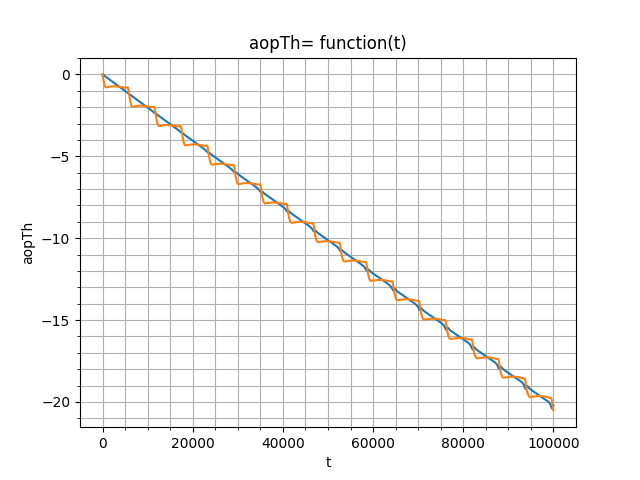
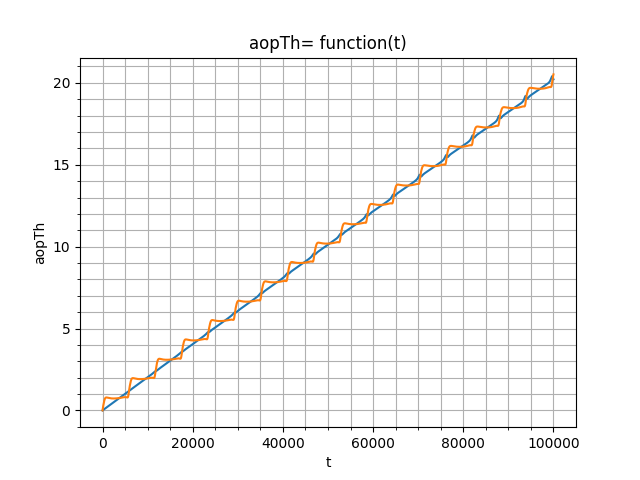
2 corrected

Changed region(s): [[0.0312, 0.125, 0.9062, 0.875], [0.0625, 0.3125, 0.125, 0.3438]]

diff --git a/2b/j2calc.py b/2b/j2calc.py
@@ -1,8 +1,6 @@
-import numpy as np
-
 from init2b import *
 import matplotlib.pyplot as plt
-from rkSolver import RK4Model, RK4
+from rkSolver import RK4Model
 
 def accelerationJ2(rVec):
     [rx, ry, rz]  = rVec
@@ -15,7 +13,7 @@ def accelerationJ2(rVec):
     wCenter = - mu * rVec / r**3
     return wCenter + wJ2
 
-def orbitalToCartesian(a, ecc, trueAnomaly):
+def orbitalToCartesian(a, ecc, trueAnomaly, raan, inc, aop):
     p = a * (1 - ecc ** 2)
     r = p / (1 + ecc * np.cos(trueAnomaly))
     trueAnomalyDot = np.sqrt(p * mu) / r**2
@@ -24,7 +22,20 @@ def orbitalToCartesian(a, ecc, trueAnomaly):
     vxOSC = rDot * np.cos(trueAnomaly) - r * trueAnomalyDot * np.sin(trueAnomaly)
     vyOSC = rDot * np.sin(trueAnomaly) + r * trueAnomalyDot * np.cos(trueAnomaly)
     velVecOSC = np.array([vxOSC, vyOSC, 0])
-    return np.concatenate((rVecOSC, velVecOSC), axis=None)
+
+    rotRaan = np.array([[np.cos(raan), -np.sin(raan), 0],
+                        [np.sin(raan), np.cos(raan), 0],
+                        [0, 0, 1]])
+    rotInc = np.array([[1, 0, 0],
+                       [0, np.cos(inc), -np.sin(inc)],
+                       [0, np.sin(inc), np.cos(inc)]])
+    rotAop = np.array([[np.cos(aop), -np.sin(aop), 0],
+                       [np.sin(aop), np.cos(aop), 0],
+                       [0, 0, 1]])
+
+    rVecISC = rotRaan.dot(rotInc.dot(rotAop.dot(rVecOSC)))
+    velVecISC = rotRaan.dot(rotInc.dot(rotAop.dot(velVecOSC)))
+    return np.concatenate((rVecISC, velVecISC), axis=None)
 
 def cartesianToOrbital(stateRV, mu):
 
@@ -64,27 +75,11 @@ def cartesianToOrbital(stateRV, mu):
 
     return np.array([inc, raan, a, ecc, aop, trueAnomaly, c, f])
 
-def OSCtoISC(raan, inc, aop, vectorOSC):
-    rotRaan = np.array([[np.cos(raan), -np.sin(raan), 0],
-                      [np.sin(raan), np.cos(raan), 0],
-                      [0, 0, 1]])
-    rotInc = np.array([[1, 0, 0],
-                     [0, np.cos(inc), -np.sin(inc)],
-                     [0, np.sin(inc), np.cos(inc)]])
-    rotAop = np.array([[np.cos(aop), -np.sin(aop), 0],
-                     [np.sin(aop), np.cos(aop), 0],
-                     [0, 0, 1]])
 
-    return rotRaan.dot(rotInc.dot(rotAop.dot(vectorOSC)))
-
-stateOSC0 = orbitalToCartesian(a, ecc, trueAnomaly)
-
-stateISC0 = np.zeros(6)
-stateISC0[0:3] = OSCtoISC(raan, inc, aop, stateOSC0[0:3])
-stateISC0[3:] = OSCtoISC(raan, inc, aop, stateOSC0[3:])
+state0 = orbitalToCartesian(a0, ecc0, trueAnomaly0, raan0, inc0, aop0)
 
 twoBodyModel = lambda stateVec: np.concatenate((stateVec[3:], accelerationJ2(stateVec[0:3])),axis=None)
-stateRVarr = RK4Model(stateISC0, t, dt, twoBodyModel)
+stateRVarr = RK4Model(state0, t, dt, twoBodyModel)
 ax = plt.figure().add_subplot(projection='3d')
 
 # Prepare arrays x, y, z
@@ -97,13 +92,13 @@ plt.savefig('3dOrbitGraph.png')
 plt.show()
 plt.close()
 
-orbitalElements = np.array([[0.0]*len(cartesianToOrbital(stateISC0, mu)) for i in  range(len(t))])
+orbitalElements = np.array([[0.0]*len(cartesianToOrbital(state0, mu)) for i in  range(len(t))])
 
 for i in range(len(t)):
     orbitalElements[i] = cartesianToOrbital(stateRVarr[i], mu)
 
 orbitalTitle = ['inc', 'raan', 'a', 'ecc', 'aop', 'trueAnomaly', 'c', 'f']
-for i in range(len(orbitalTitle)):
+for i in 0, 2, 3, 5, 6, 7:
     plt.plot(t, np.round(orbitalElements[:, i],1))
     plt.title(orbitalTitle[i] + '= func(t)')
     plt.xlabel('t')
@@ -113,12 +108,12 @@ for i in range(len(orbitalTitle)):
     plt.savefig(orbitalTitle[i] + '2b.png')
     plt.close()
 
-a = orbitalElements[:, 2]
-ecc = orbitalElements[:, 3]
-inc = orbitalElements[:, 0]
+aArr = orbitalElements[:, 2]
+eccArr = orbitalElements[:, 3]
+incArr = orbitalElements[:, 0]
 
-raanDot = 3/2 * J2 * (Rearth / (a * (1 - ecc**2)))**2 * np.sqrt(mu / a**3) * np.cos(inc)
-aopDot =  -3/4 * J2 * (Rearth / (a * (1 - ecc**2)))**2 * np.sqrt(mu / a**3) * (5 * (np.cos(inc))**2 - 1)
+raanDot = 3/2 * J2 * (Rearth / (aArr * (1 - eccArr**2)))**2 * np.sqrt(mu / aArr**3) * np.cos(incArr)
+aopDot =  -3/4 * J2 * (Rearth / (aArr * (1 - eccArr**2)))**2 * np.sqrt(mu / aArr**3) * (5 * (np.cos(incArr))**2 - 1)
 
 raanAnalytical = np.zeros(len(raanDot))
 aopAnalytical  = np.zeros(len(aopDot))
@@ -131,8 +126,8 @@ titleAnalytical = ['raanTh', 'aopTh']
 y = [raanAnalytical, aopAnalytical]
 yDig = [orbitalElements[:, 1] - orbitalElements[0, 1], orbitalElements[:, 4] - orbitalElements[0, 4]]
 for i in range(len(titleAnalytical)):
-    plt.plot(t, np.rad2deg(y[i]))
-    plt.plot(t, yDig[i])
+    plt.plot(t, np.rad2deg(-y[i]))
+    plt.plot(t, -yDig[i])
     plt.title(titleAnalytical[i] + '= function(t)')
     plt.xlabel('t')
     plt.ylabel(titleAnalytical[i])

diff --git a/2a/twoBodiesTask.py b/2a/twoBodiesTask.py
@@ -2,7 +2,7 @@ from rkSolver import RK4Model, RK4
 from init2a import *
 import  matplotlib.pyplot as plt
 
-def orbitalToCartesian(a, ecc, trueAnomaly):
+def orbitalToCartesian(a, ecc, trueAnomaly, raan, inc, aop):
     p = a * (1 - ecc ** 2)
     r = p / (1 + ecc * np.cos(trueAnomaly))
     trueAnomalyDot = np.sqrt(p * mu) / r**2
@@ -11,7 +11,20 @@ def orbitalToCartesian(a, ecc, trueAnomaly):
     vxOSC = rDot * np.cos(trueAnomaly) - r * trueAnomalyDot * np.sin(trueAnomaly)
     vyOSC = rDot * np.sin(trueAnomaly) + r * trueAnomalyDot * np.cos(trueAnomaly)
     velVecOSC = np.array([vxOSC, vyOSC, 0])
-    return np.concatenate((rVecOSC, velVecOSC), axis=None)
+
+    rotRaan = np.array([[np.cos(raan), -np.sin(raan), 0],
+                        [np.sin(raan), np.cos(raan), 0],
+                        [0, 0, 1]])
+    rotInc = np.array([[1, 0, 0],
+                       [0, np.cos(inc), -np.sin(inc)],
+                       [0, np.sin(inc), np.cos(inc)]])
+    rotAop = np.array([[np.cos(aop), -np.sin(aop), 0],
+                       [np.sin(aop), np.cos(aop), 0],
+                       [0, 0, 1]])
+
+    rVecISC = rotRaan.dot(rotInc.dot(rotAop.dot(rVecOSC)))
+    velVecISC = rotRaan.dot(rotInc.dot(rotAop.dot(velVecOSC)))
+    return np.concatenate((rVecISC, velVecISC), axis=None)
 
 def cartesianToOrbital(stateRV, mu):
 
@@ -51,27 +64,11 @@ def cartesianToOrbital(stateRV, mu):
 
     return np.array([inc, raan, a, ecc, aop, trueAnomaly, c, f])
 
-def OSCtoISC(raan, inc, aop, vectorOSC):
-    rotRaan = np.array([[np.cos(raan), -np.sin(raan), 0],
-                      [np.sin(raan), np.cos(raan), 0],
-                      [0, 0, 1]])
-    rotInc = np.array([[1, 0, 0],
-                     [0, np.cos(inc), -np.sin(inc)],
-                     [0, np.sin(inc), np.cos(inc)]])
-    rotAop = np.array([[np.cos(aop), -np.sin(aop), 0],
-                     [np.sin(aop), np.cos(aop), 0],
-                     [0, 0, 1]])
+state0 = orbitalToCartesian(a0, ecc0, trueAnomaly0, raan0, inc0, aop0)
 
-    return rotRaan.dot(rotInc.dot(rotAop.dot(vectorOSC)))
-
-stateOSC0 = orbitalToCartesian(a, ecc, trueAnomaly)
-
-stateISC0 = np.zeros(6)
-stateISC0[0:3] = OSCtoISC(raan, inc, aop, stateOSC0[0:3])
-stateISC0[3:] = OSCtoISC(raan, inc, aop, stateOSC0[3:])
 
 twoBodyModel = lambda stateVec: np.concatenate((stateVec[3:], -mu * stateVec[0:3] / np.linalg.norm(stateVec[0:3])**3),axis=None)
-stateRVarr = RK4Model(stateISC0, t, dt, twoBodyModel)
+stateRVarr = RK4Model(state0, t, dt, twoBodyModel)
 ax = plt.figure().add_subplot(projection='3d')
 
 # Prepare arrays x, y, z
@@ -84,7 +81,7 @@ plt.savefig('3dOrbitGraph.png')
 plt.show()
 plt.close()
 
-orbitalElements = np.array([[0.0]*len(cartesianToOrbital(stateISC0, mu)) for i in  range(len(t))])
+orbitalElements = np.array([[0.0]*len(cartesianToOrbital(state0, mu)) for i in  range(len(t))])
 
 for i in range(len(t)):
     orbitalElements[i] = cartesianToOrbital(stateRVarr[i], mu)

diff --git a/2b/init2b.py b/2b/init2b.py
@@ -1,11 +1,11 @@
 import numpy as np
 
-inc = np.deg2rad(30)
-raan = np.deg2rad(45)
-aop = np.deg2rad(30)
-a = 7000 # km
-ecc = 0.5
-trueAnomaly = np.deg2rad(15)
+inc0 = np.deg2rad(30)
+raan0 = np.deg2rad(45)
+aop0 = np.deg2rad(30)
+a0 = 7000 # km
+ecc0 = 0.5
+trueAnomaly0 = np.deg2rad(15)
 mu = 398600.4418 # km^3 / sec^2
 Rearth = 6378.137
 J2 = 1.08262668e-3

diff --git a/2a/init2a.py b/2a/init2a.py
@@ -1,11 +1,11 @@
 import numpy as np
 
-inc = np.deg2rad(40)
-raan = np.deg2rad(45)
-aop = np.deg2rad(120)
-a = 7000 # km
-ecc = 0.5
-trueAnomaly = np.deg2rad(15)
+inc0 = np.deg2rad(40)
+raan0 = np.deg2rad(45)
+aop0 = np.deg2rad(120)
+a0 = 7000 # km
+ecc0 = 0.5
+trueAnomaly0 = np.deg2rad(15)
 mu = 398600.4418 # km^3 / sec^2
 
 dt = float(1)
